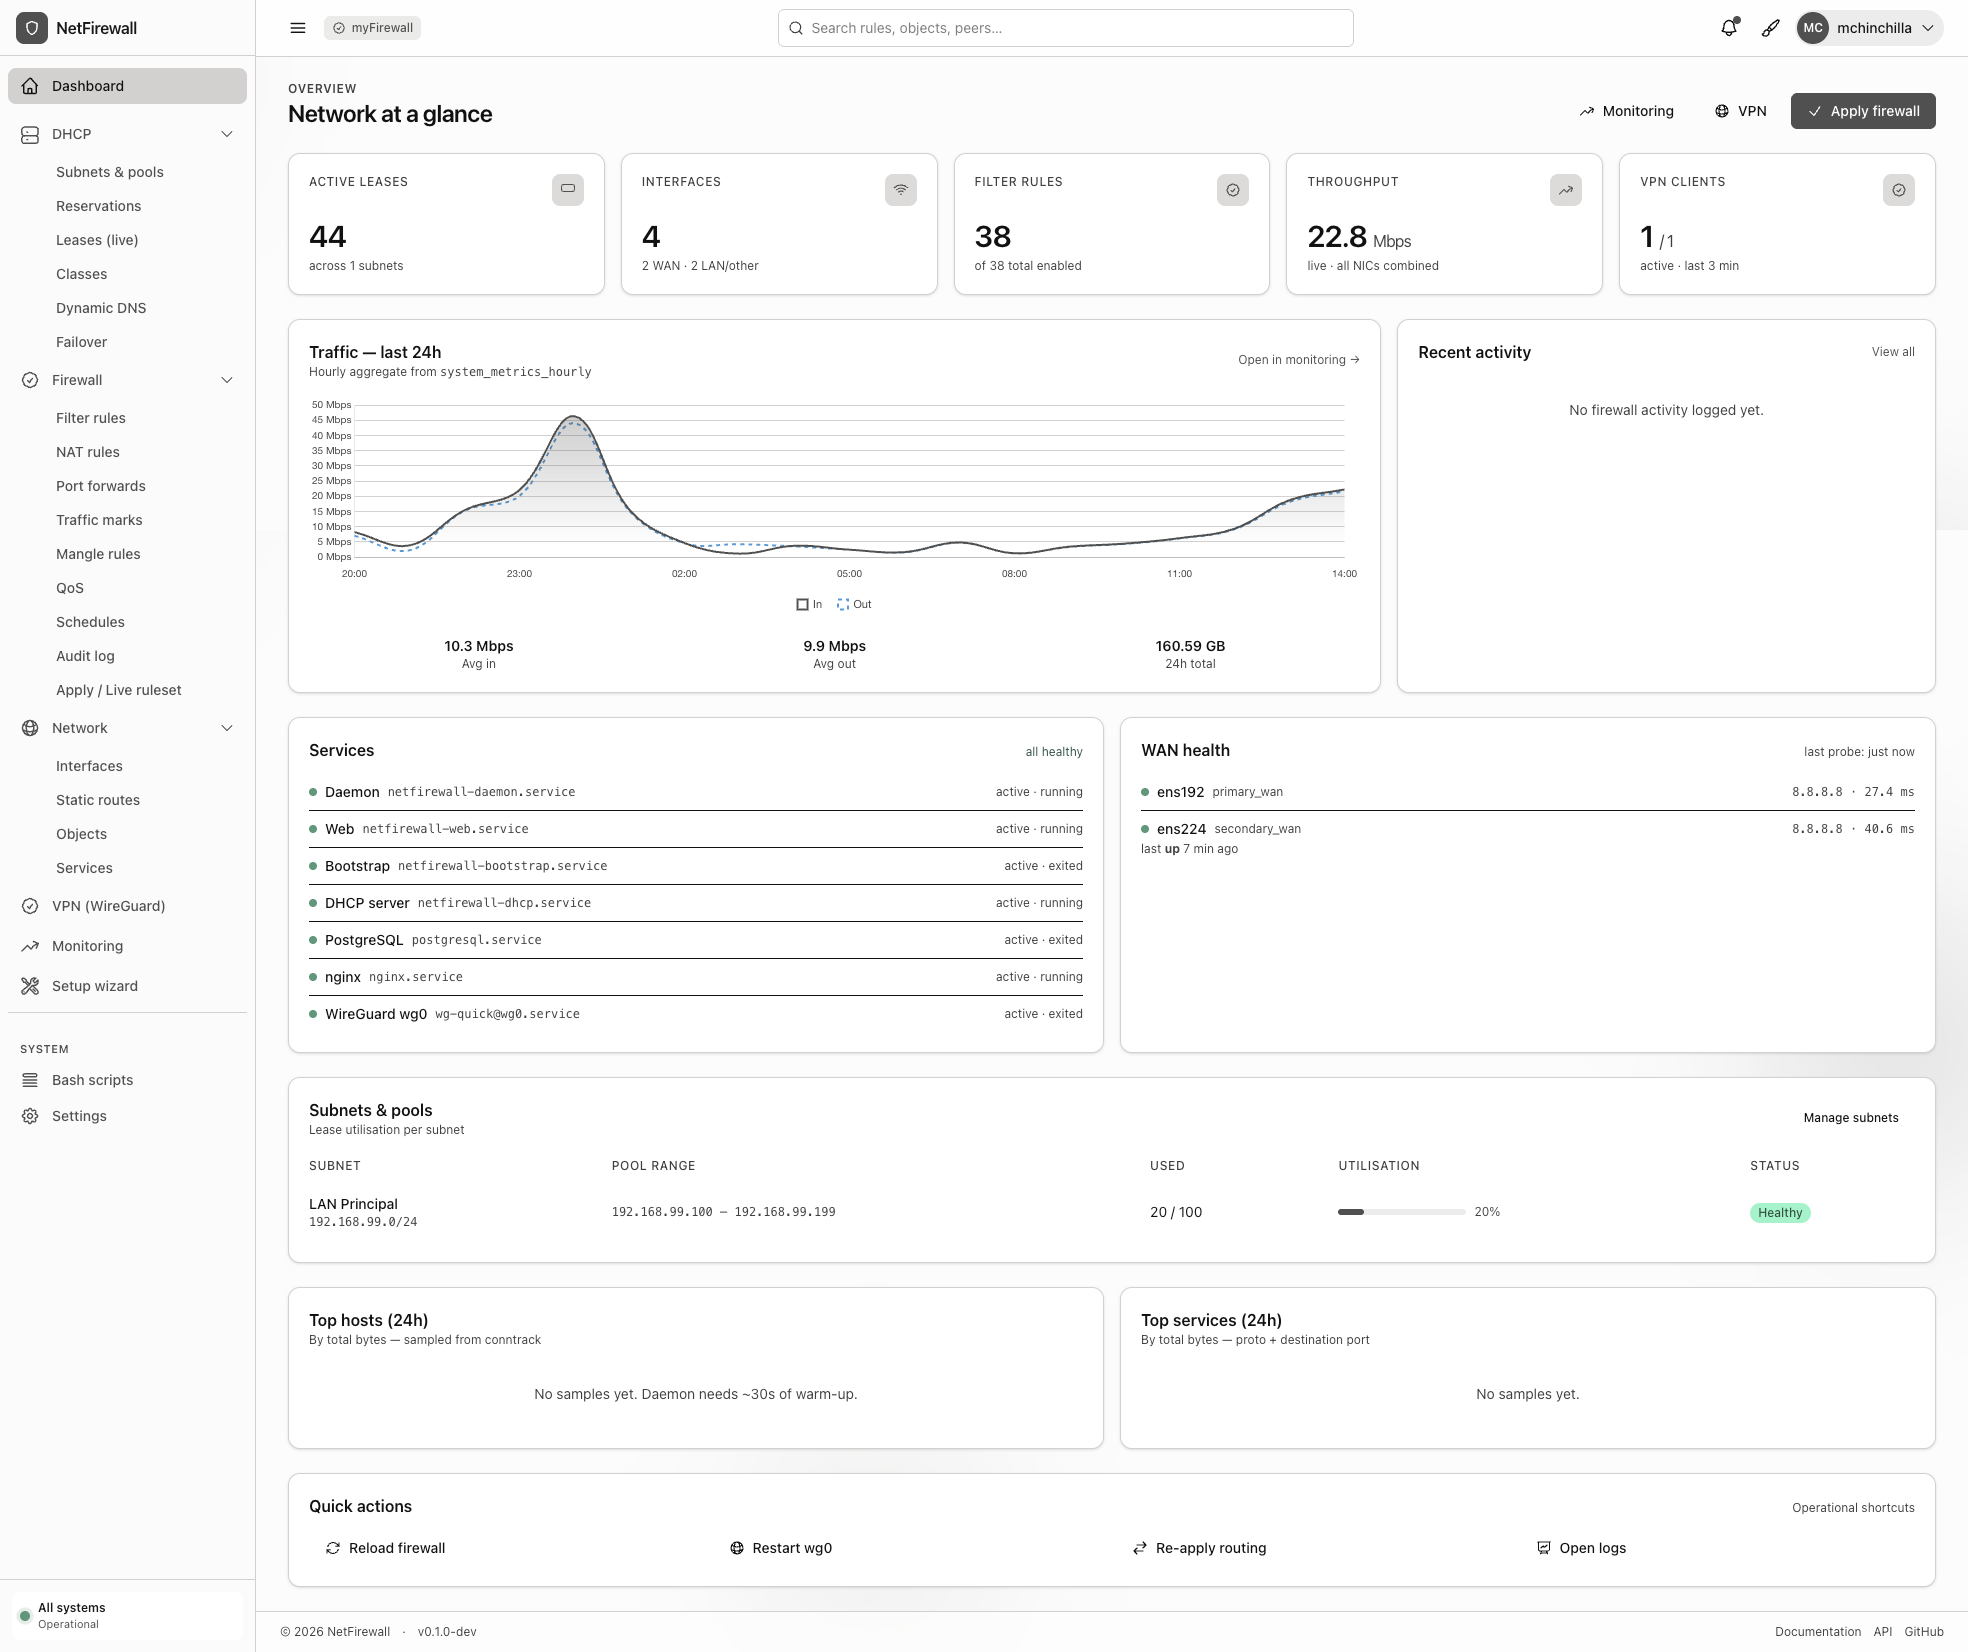
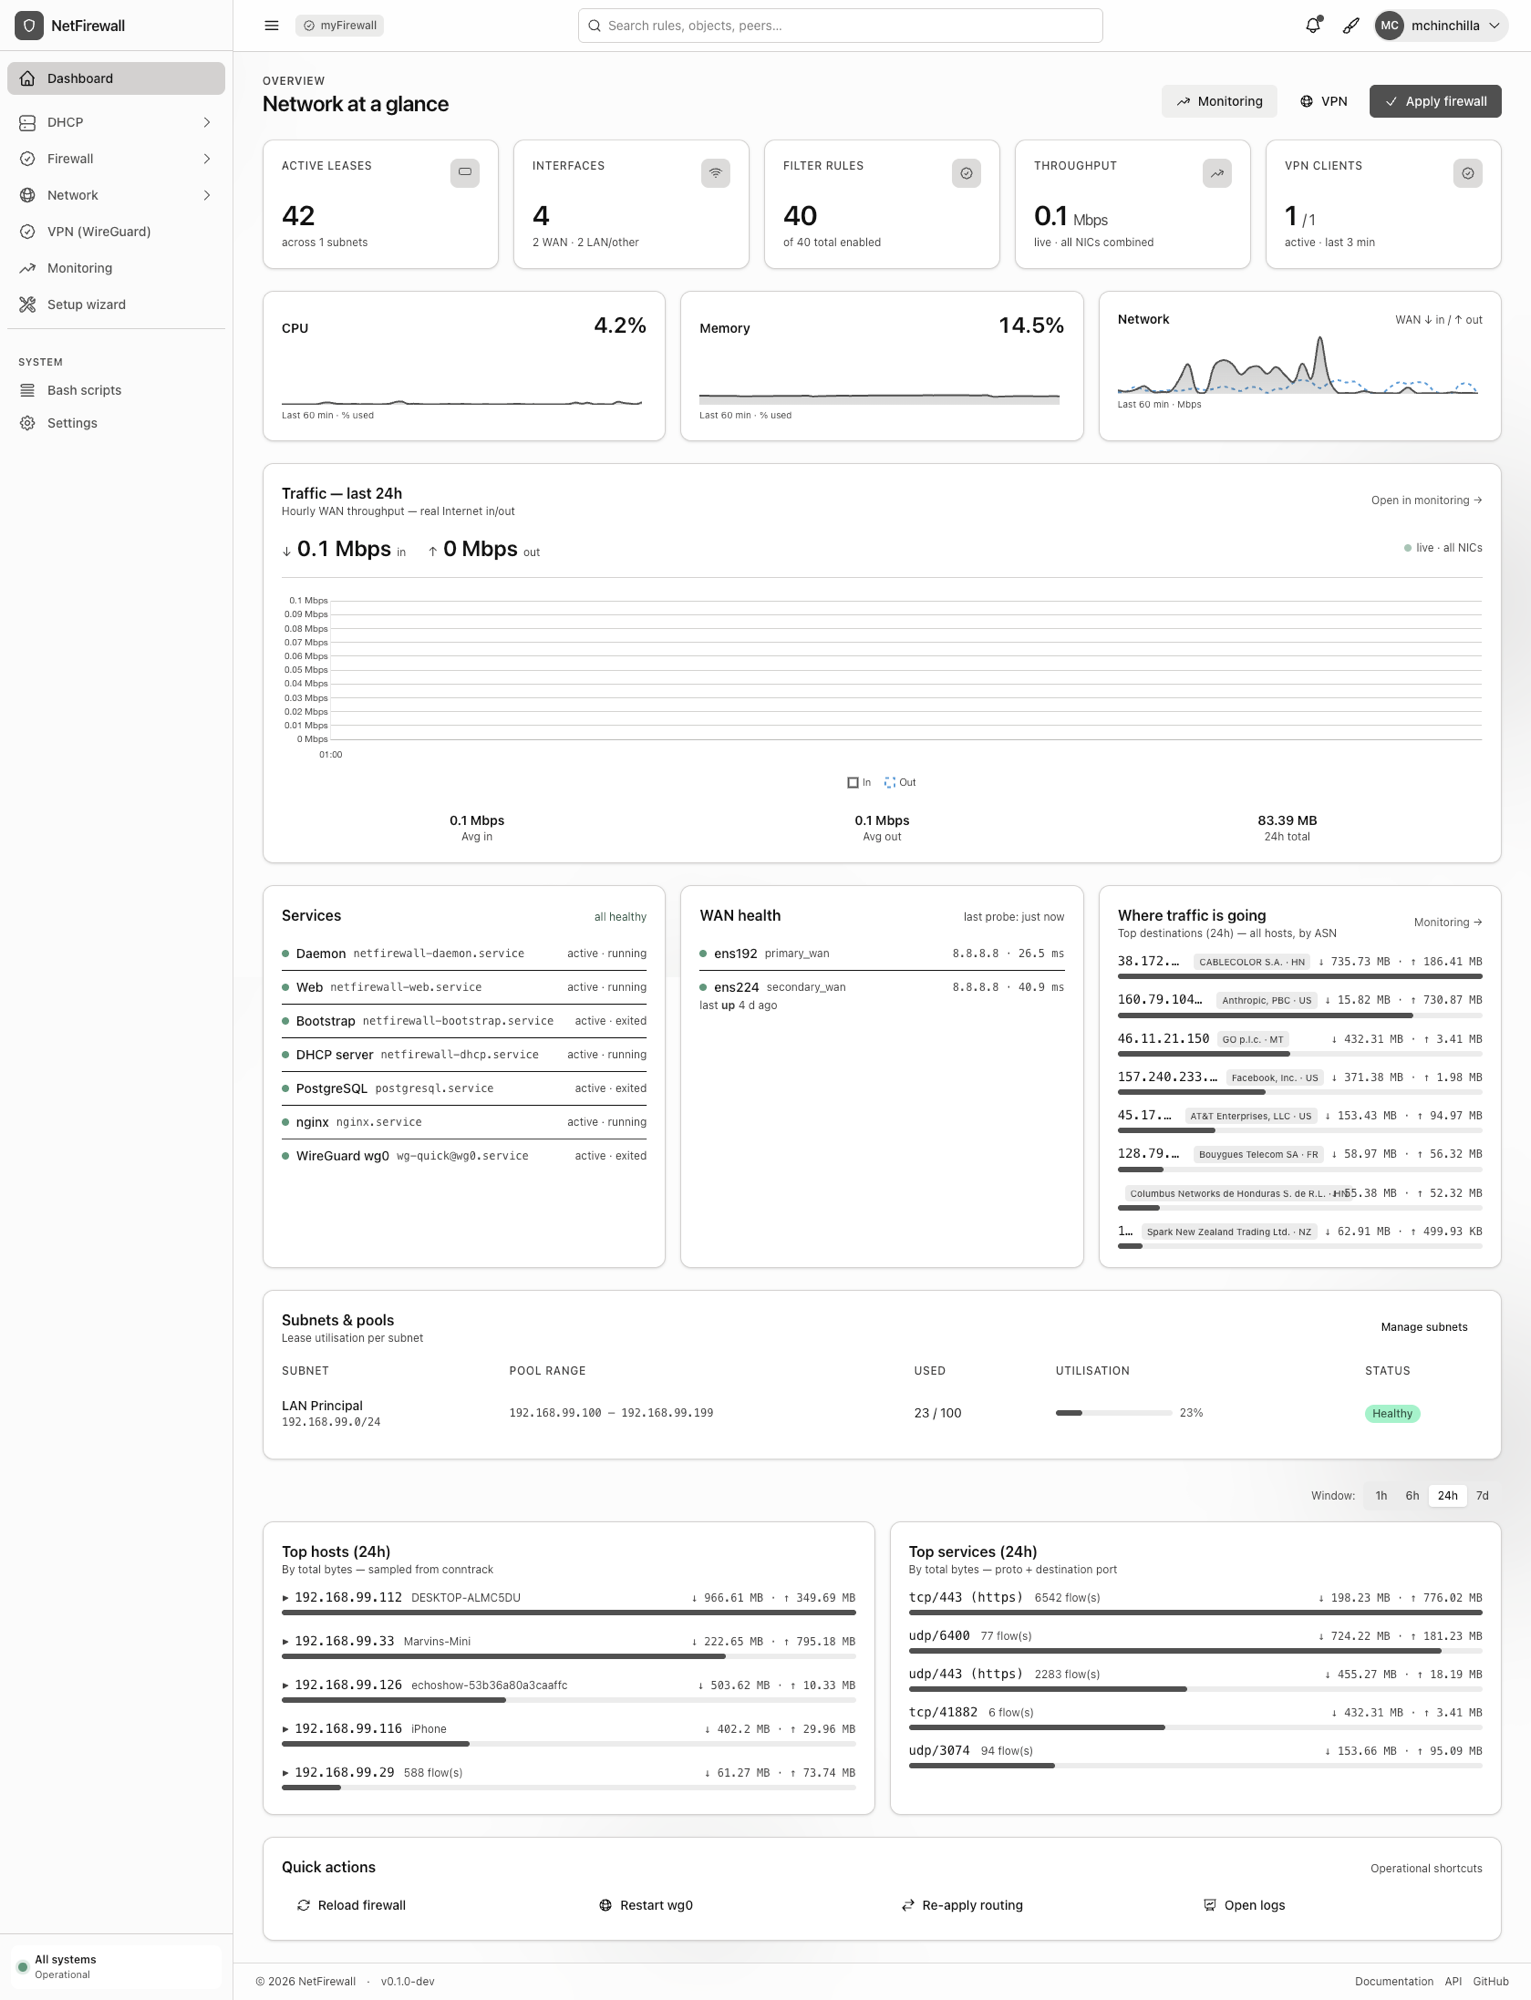
Update README to reflect live dashboard features and enhanced monitoring capabilities

diff --git a/README.es.md b/README.es.md
@@ -22,7 +22,14 @@ nftables · DHCP · WireGuard · failover dual-WAN · QoS · policy routing — 
 
 ![Panel de NetFirewall](docs/images/dashboard.png)
 
-Vista única consolidada: KPIs arriba, gráfica de tráfico + eventos críticos en segunda fila, salud de servicios + WAN, subnets, top talkers y atajos operativos.
+Vista única consolidada, actualizada en vivo sin recargar la página:
+
+- **Tarjetas KPI** — leases activos, interfaces, filter rules, throughput en vivo, clientes VPN.
+- **Sparklines de salud del sistema en vivo** — CPU %, memoria % y throughput de red WAN, cada uno un sparkline de 60 minutos que se actualiza in-place cada 10s.
+- **Tráfico — últimas 24h** — throughput horario solo-WAN (Internet real in/out, sin doble conteo del NAT), con un pulso live de in/out arriba.
+- **Servicios · Salud WAN · A dónde va el tráfico** — salud de unidades systemd, alcance por WAN, y los destinos más activos de toda la LAN **enriquecidos con ASN / organización / país** (ej. "Amazon", "Cloudflare").
+- **Top hosts / servicios** — totales de bytes por host y por servicio desde el sampler de conntrack, con un **drill-down de destinos por host** (clic en un host para ver exactamente a dónde va su tráfico, por ASN).
+- Utilización de subnets & pools, y atajos operativos de un click.
 
 ## ✨ Qué hace
 
@@ -34,7 +41,8 @@ Vista única consolidada: KPIs arriba, gráfica de tráfico + eventos críticos 
 | 🔐 **VPN WireGuard** | Ambos modos: hub-server con N peers Y cliente-saliente a un servidor remoto. Importación de archivos `/etc/wireguard/*.conf` existentes hacia la DB. |
 | 📊 **QoS (tc HTB)** | Hierarchical Token Bucket por interface con porcentajes de banda por traffic mark. |
 | 🛣️ **Policy routing** | `fw_route_tables` + `fw_policy_rules` modelan `ip rule` + `ip route` declarativamente. El daemon reconcilia `/etc/iproute2/rt_tables` + estado del kernel. |
-| 📈 **Monitoreo** | Health de servicios systemd, alcance WAN, top talkers (sampler de conntrack), gráficas de tráfico, detector de pending changes. |
+| 📈 **Monitoreo** | Health de servicios systemd, alcance WAN, sparklines en vivo de CPU/memoria/red, gráficas de tráfico solo-WAN (sin doble conteo del NAT), detector de pending changes. |
+| 🌍 **Tráfico por destino** | El sampler de conntrack registra *a dónde* va el tráfico de cada host de la LAN (top-N destinos por host), enriquecido con ASN/org/país vía [ip.guide](https://ip.guide) (cacheado por prefijo). Haz drill-down en cualquier host para ver sus destinos. |
 | 👤 **Auth** | Session cookies, enrollment TOTP + recovery codes, elevation para ops destructivas, audit log completo. |
 
 ## 🏗️ Arquitectura
@@ -53,6 +61,7 @@ graph TB
         D[NetFirewall.Daemon]
         D --> HM[WanHealthMonitorService]
         D --> CS[ConntrackSamplerService]
+        D --> AR[IpAsnResolver · ip.guide]
         D --> SW[ScheduleWatcherService]
         D --> MC[MetricsCollectorService]
         D --> AP[AuditPrunerService]

diff --git a/README.md b/README.md
@@ -22,7 +22,14 @@ nftables · DHCP · WireGuard · dual-WAN failover · QoS · policy routing — 
 
 ![NetFirewall dashboard](docs/images/dashboard.png)
 
-Single overview pane: KPIs at the top, traffic + critical events second, services + WAN health row, subnets, top talkers, and operational shortcuts.
+Single overview pane, updated live without page reloads:
+
+- **KPI cards** — active leases, interfaces, filter rules, live throughput, VPN clients.
+- **Live system-health sparklines** — CPU %, memory %, and WAN network throughput, each a 60-minute sparkline refreshed in place every 10s.
+- **Traffic — last 24h** — WAN-only hourly throughput (real Internet in/out, no NAT double-count), with a live in/out pulse on top.
+- **Services · WAN health · Where traffic is going** — systemd unit health, per-WAN reachability, and the busiest destinations across the LAN **enriched with ASN / organisation / country** (e.g. "Amazon", "Cloudflare").
+- **Top hosts / services** — per-host and per-service byte totals from the conntrack sampler, with a per-host **destination drill-down** (click a host to see exactly where its traffic goes, by ASN).
+- Subnets & pools utilisation, plus one-click operational shortcuts.
 
 ## ✨ What it does
 
@@ -34,7 +41,8 @@ Single overview pane: KPIs at the top, traffic + critical events second, service
 | 🔐 **WireGuard VPN** | Both modes: hub-server with N peers AND outbound-client to a remote server. Import existing `/etc/wireguard/*.conf` files from disk into DB. |
 | 📊 **QoS (tc HTB)** | Hierarchical Token Bucket per interface with per-traffic-mark class shares. |
 | 🛣️ **Policy routing** | `fw_route_tables` + `fw_policy_rules` model `ip rule` + `ip route` declaratively. The daemon reconciles `/etc/iproute2/rt_tables` + kernel state. |
-| 📈 **Monitoring** | systemd service health, WAN reachability, top talkers (conntrack sampler), traffic graphs, pending-changes detector. |
+| 📈 **Monitoring** | systemd service health, WAN reachability, live CPU/memory/network sparklines, WAN-only traffic graphs (no NAT double-count), pending-changes detector. |
+| 🌍 **Per-destination traffic** | conntrack sampler records *where* each LAN host's traffic goes (top-N destinations per host), enriched with ASN/org/country via [ip.guide](https://ip.guide) (cached by prefix). Drill into any host to see its destinations. |
 | 👤 **Auth** | Custom session cookies, TOTP enrollment + recovery codes, elevation gates for destructive ops, comprehensive audit log. |
 
 ## 🏗️ Architecture
@@ -53,6 +61,7 @@ graph TB
         D[NetFirewall.Daemon]
         D --> HM[WanHealthMonitorService]
         D --> CS[ConntrackSamplerService]
+        D --> AR[IpAsnResolver · ip.guide]
         D --> SW[ScheduleWatcherService]
         D --> MC[MetricsCollectorService]
         D --> AP[AuditPrunerService]